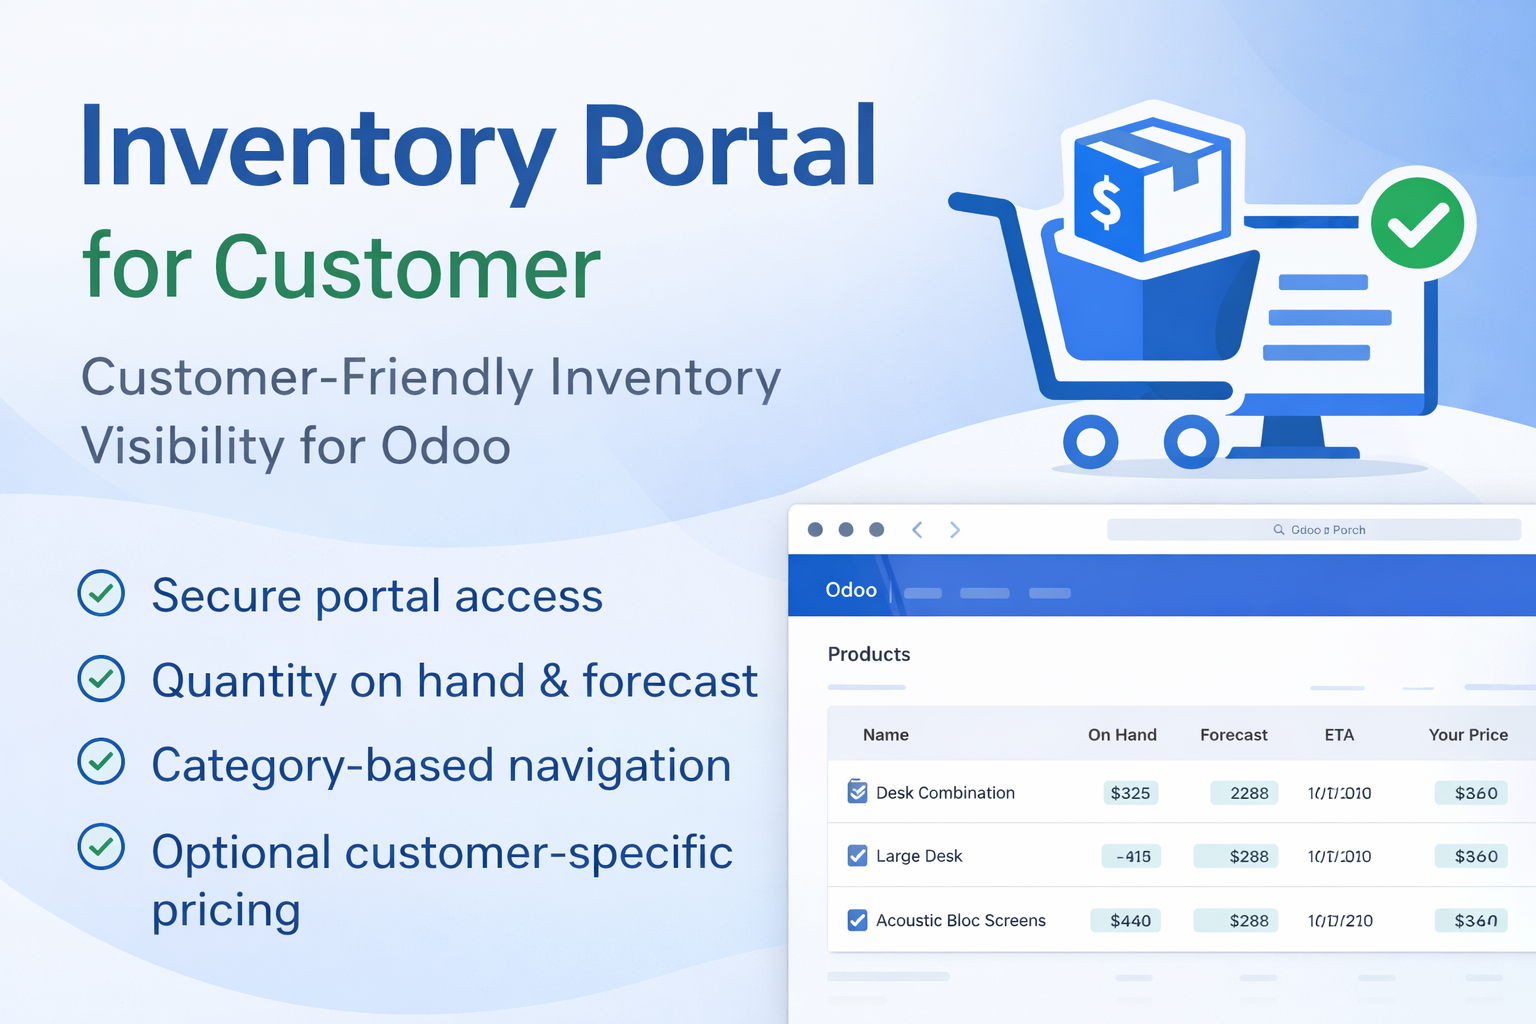
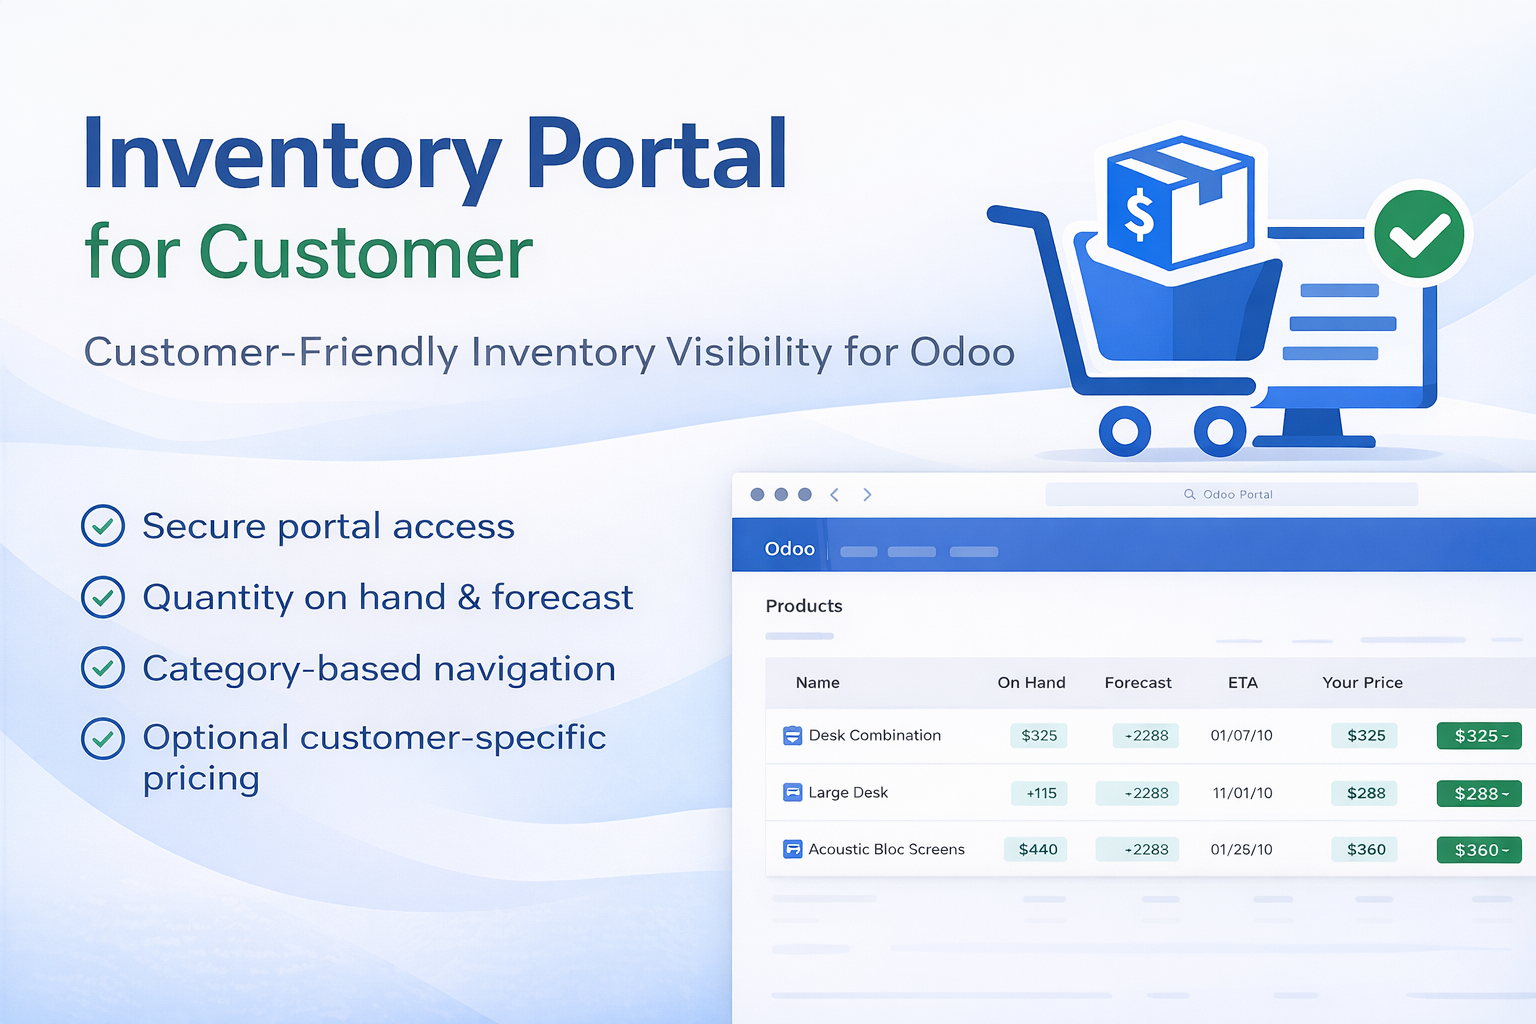
[MOD]Update index page.

diff --git a/inventory_portal_for_customer/static/description/index.html b/inventory_portal_for_customer/static/description/index.html
@@ -8,9 +8,9 @@
                 stock levels, and forecasted quantities — directly from the Odoo Portal.
             </p>
 
-            <div class="row">
-                <div class="col-md-6">
-                    <h3>Highlights</h3>
+            <div class="row justify-content-between">
+                <div class="col-6">
+                    <h4>Highlights</h4>
                     <ul>
                         <li>Customer-friendly inventory view via Odoo Portal (no backend access)</li>
                         <li>Browse products using expandable, category-based navigation</li>
@@ -19,8 +19,7 @@
                         <li>Read-only by design — safe for inventory and accounting teams</li>
                         <li>Optional customer-specific pricing using Odoo pricelists</li>
                     </ul>
-
-                    <h3>How to Use</h3>
+                    <h4>How to Use</h4>
                     <ol>
                         <li>Grant Portal access to your customers</li>
                         <li>Customers log in to the Odoo Portal</li>
@@ -28,9 +27,8 @@
                         <li>Browse products by category or use the search bar</li>
                     </ol>
                 </div>
-
-                <div class="col-md-6">
-                    <div class="oe_row_img oe_centered">
+                <div class="col-6">
+                    <div class="oe_bg_img oe_centered">
                         <!-- Replace with your actual screenshot -->
                         <img class="oe_picture oe_screenshot" src="banner.png">
                     </div>
